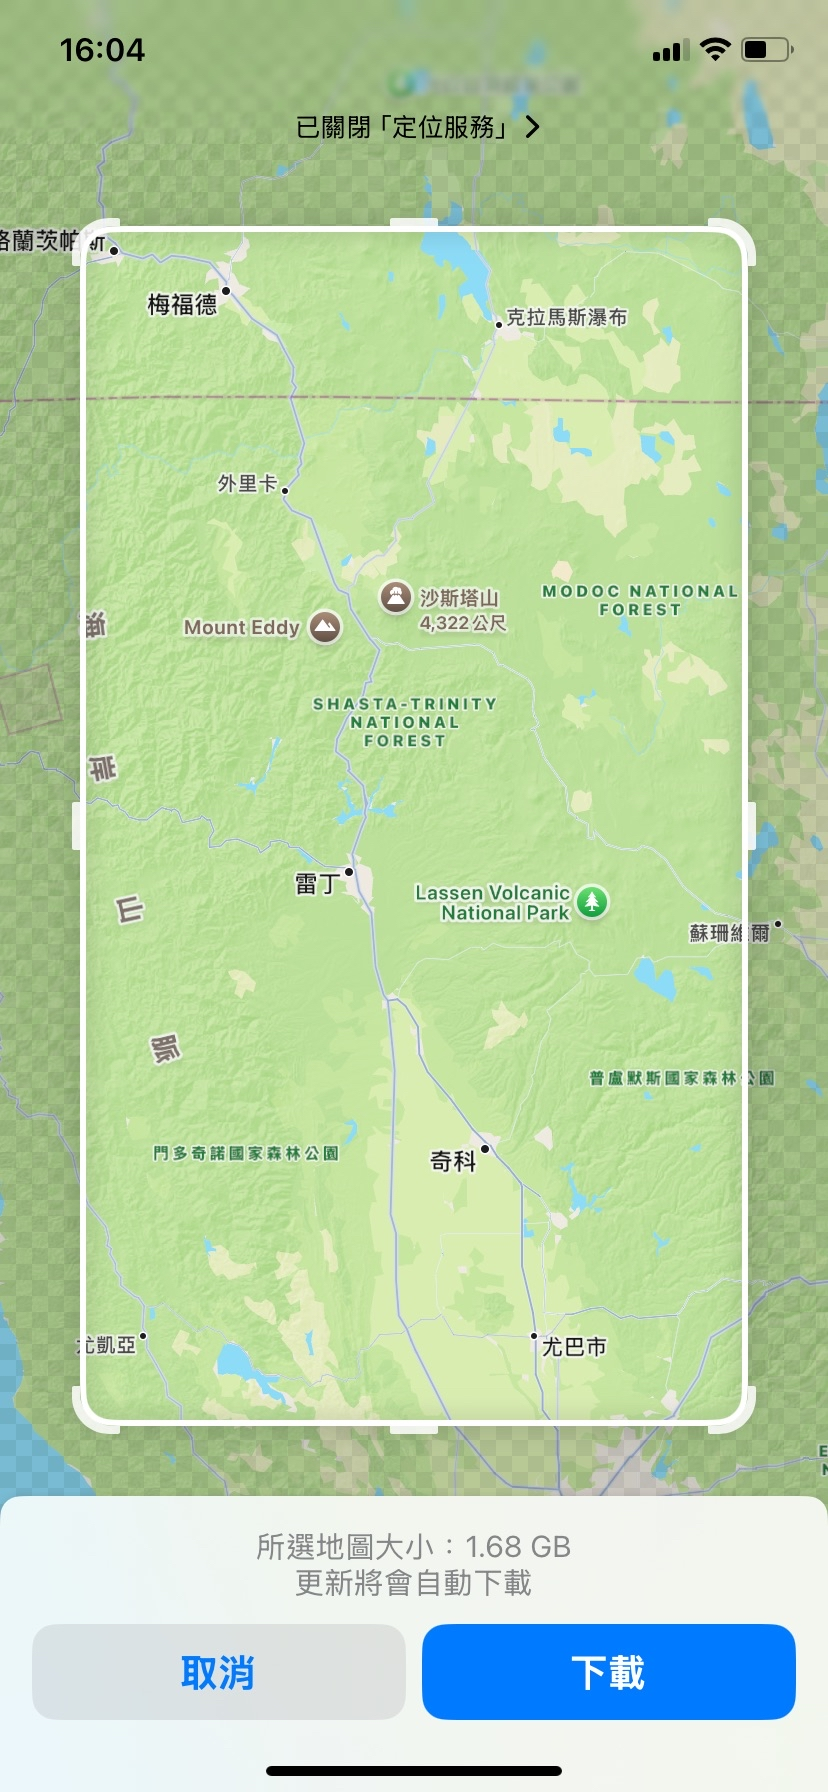
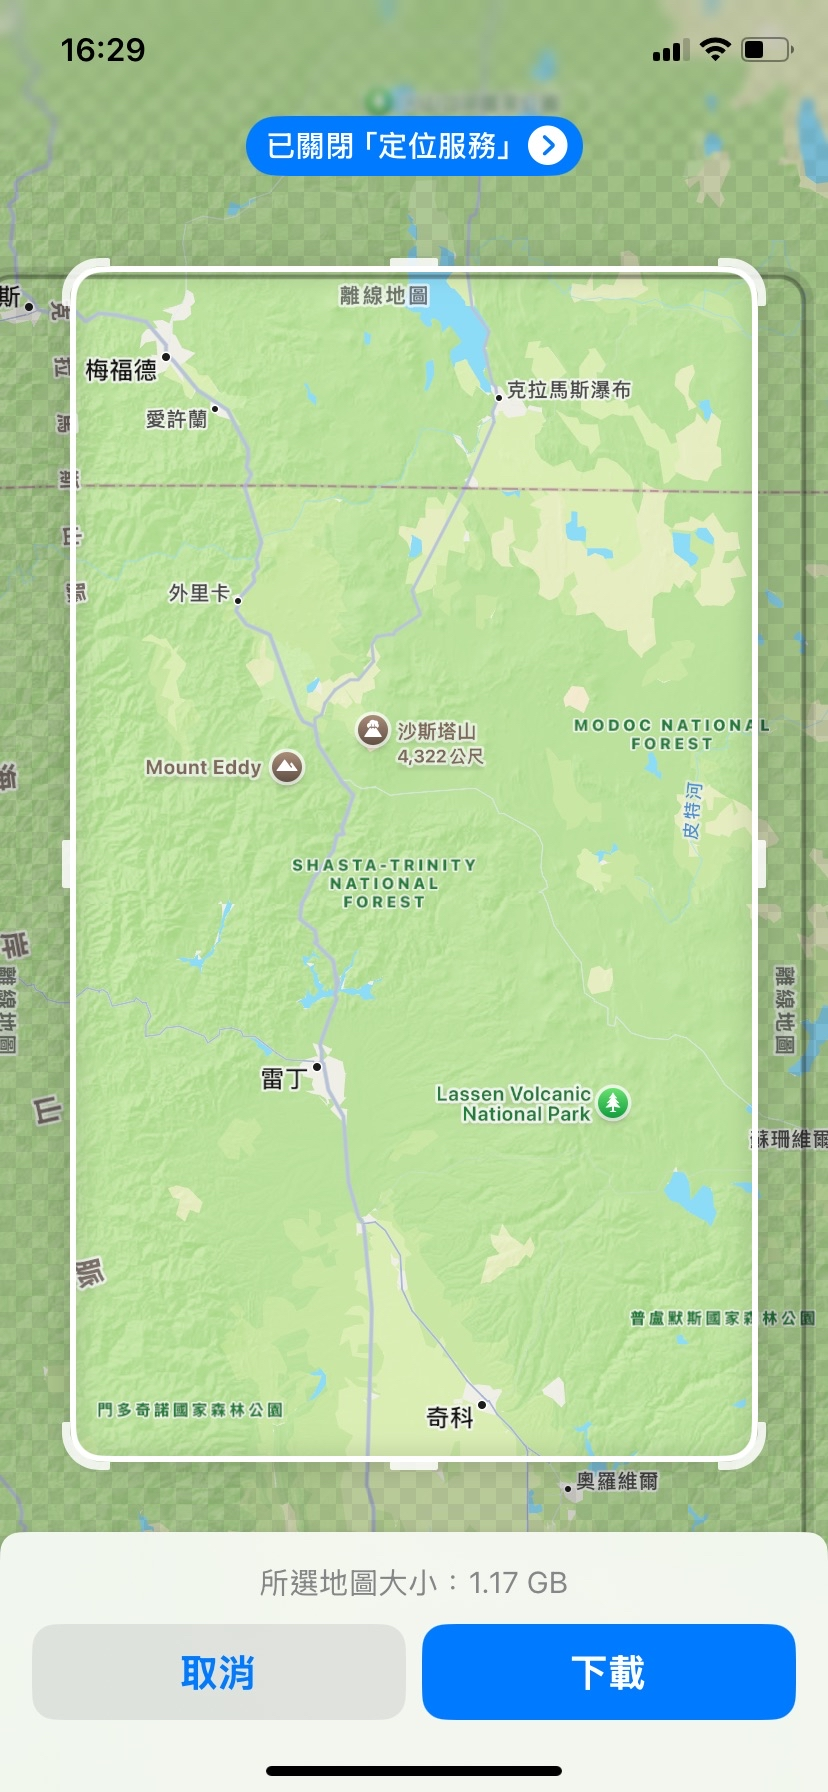
換新 Apple 地圖截圖、移除圖片高度限制

diff --git a/index.html b/index.html
@@ -1644,7 +1644,7 @@ function renderOfflineGuide() {
     <div style="font-size:13px;font-weight:700;margin-bottom:8px;">🗺️ Google Maps 下載步驟</div>
     <div style="background:white;border-radius:14px;padding:14px;margin-bottom:6px;">
       <div style="font-size:13px;color:#555;margin-bottom:10px;">大頭貼 → 離線地圖 → 選取自己的地圖</div>
-      <img src="img/offline-google.png" style="width:100%;max-height:220px;object-fit:cover;object-position:top;border-radius:10px;display:block;margin-bottom:10px;" loading="lazy">
+      <img src="img/offline-google.png" style="width:100%;border-radius:10px;display:block;margin-bottom:10px;" loading="lazy">
       <div style="font-size:13px;line-height:1.7;">
         調整方框讓以上四個地標都在框內。<br>
         檔案大小約 <b>80–150 MB</b>，建議 WiFi 下載。<br>
@@ -1655,7 +1655,7 @@ function renderOfflineGuide() {
     <div style="font-size:13px;font-weight:700;margin:14px 0 8px;">🍎 Apple 地圖下載步驟</div>
     <div style="background:white;border-radius:14px;padding:14px;margin-bottom:6px;">
       <div style="font-size:13px;color:#555;margin-bottom:10px;">設定 → 地圖 → 離線地圖 → 下載新地圖（需 iOS 17+）</div>
-      <img src="img/offline-apple.png" style="width:100%;max-height:220px;object-fit:cover;object-position:top;border-radius:10px;display:block;margin-bottom:10px;" loading="lazy">
+      <img src="img/offline-apple.png" style="width:100%;border-radius:10px;display:block;margin-bottom:10px;" loading="lazy">
       <div style="font-size:13px;line-height:1.7;">
         調整方框讓以上四個地標都在框內。<br>
         Apple 地圖下緣可以到 <b>尤巴市（Yuba City）</b>。<br>